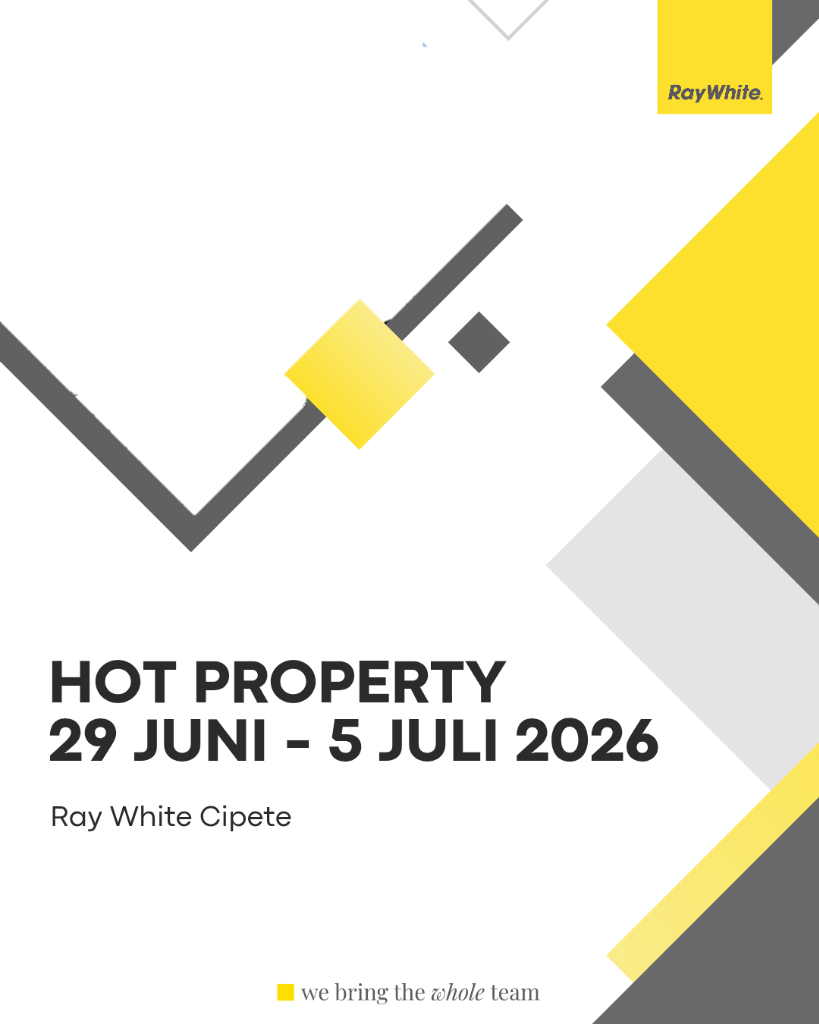
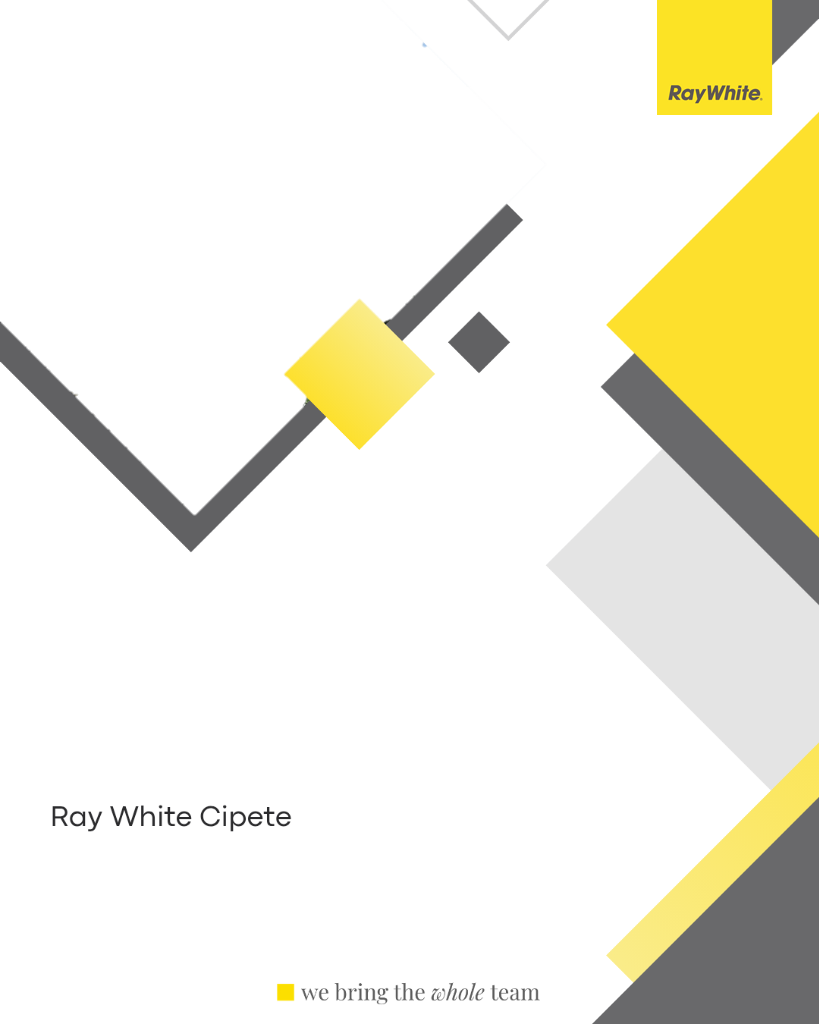
v8.6.6: Remove white box overlay - template now clean, draw title directly

Changed region(s): [[0.0611, 0.625, 0.8242, 0.75], [0.8242, 0.0938, 0.8547, 0.125]]

diff --git a/app/src/main/java/com/example/util/NewsletterDownloader.kt b/app/src/main/java/com/example/util/NewsletterDownloader.kt
@@ -429,22 +429,7 @@ object NewsletterDownloader {
             }
         }
 
-        // Measure text width dynamically
-        val width1 = textPaint.measureText(line1)
-        val width2 = if (line2.isNotBlank()) textPaint.measureText(line2) else 0f
-        val width3 = subPaint.measureText("Ray White Cipete")
-        val maxWidth = maxOf(width1, width2, width3)
-        val rightBound = 120f + maxWidth + 60f // 120f start + maxWidth + padding
-        val coverWhiteBoxRight = maxOf(1150f, rightBound)
-
-        // 4. Clear text area with dynamically fitted white background box
-        val whitePaint = Paint().apply {
-            color = Color.WHITE
-            style = Paint.Style.FILL
-        }
-        canvas.drawRect(100f, 1240f, coverWhiteBoxRight, 1700f, whitePaint)
-
-        // 5. Draw text
+        // 4. Draw title text directly on the clean template
         if (line2.isBlank()) {
             canvas.drawText(line1, 120f, 1450f, textPaint)
         } else {